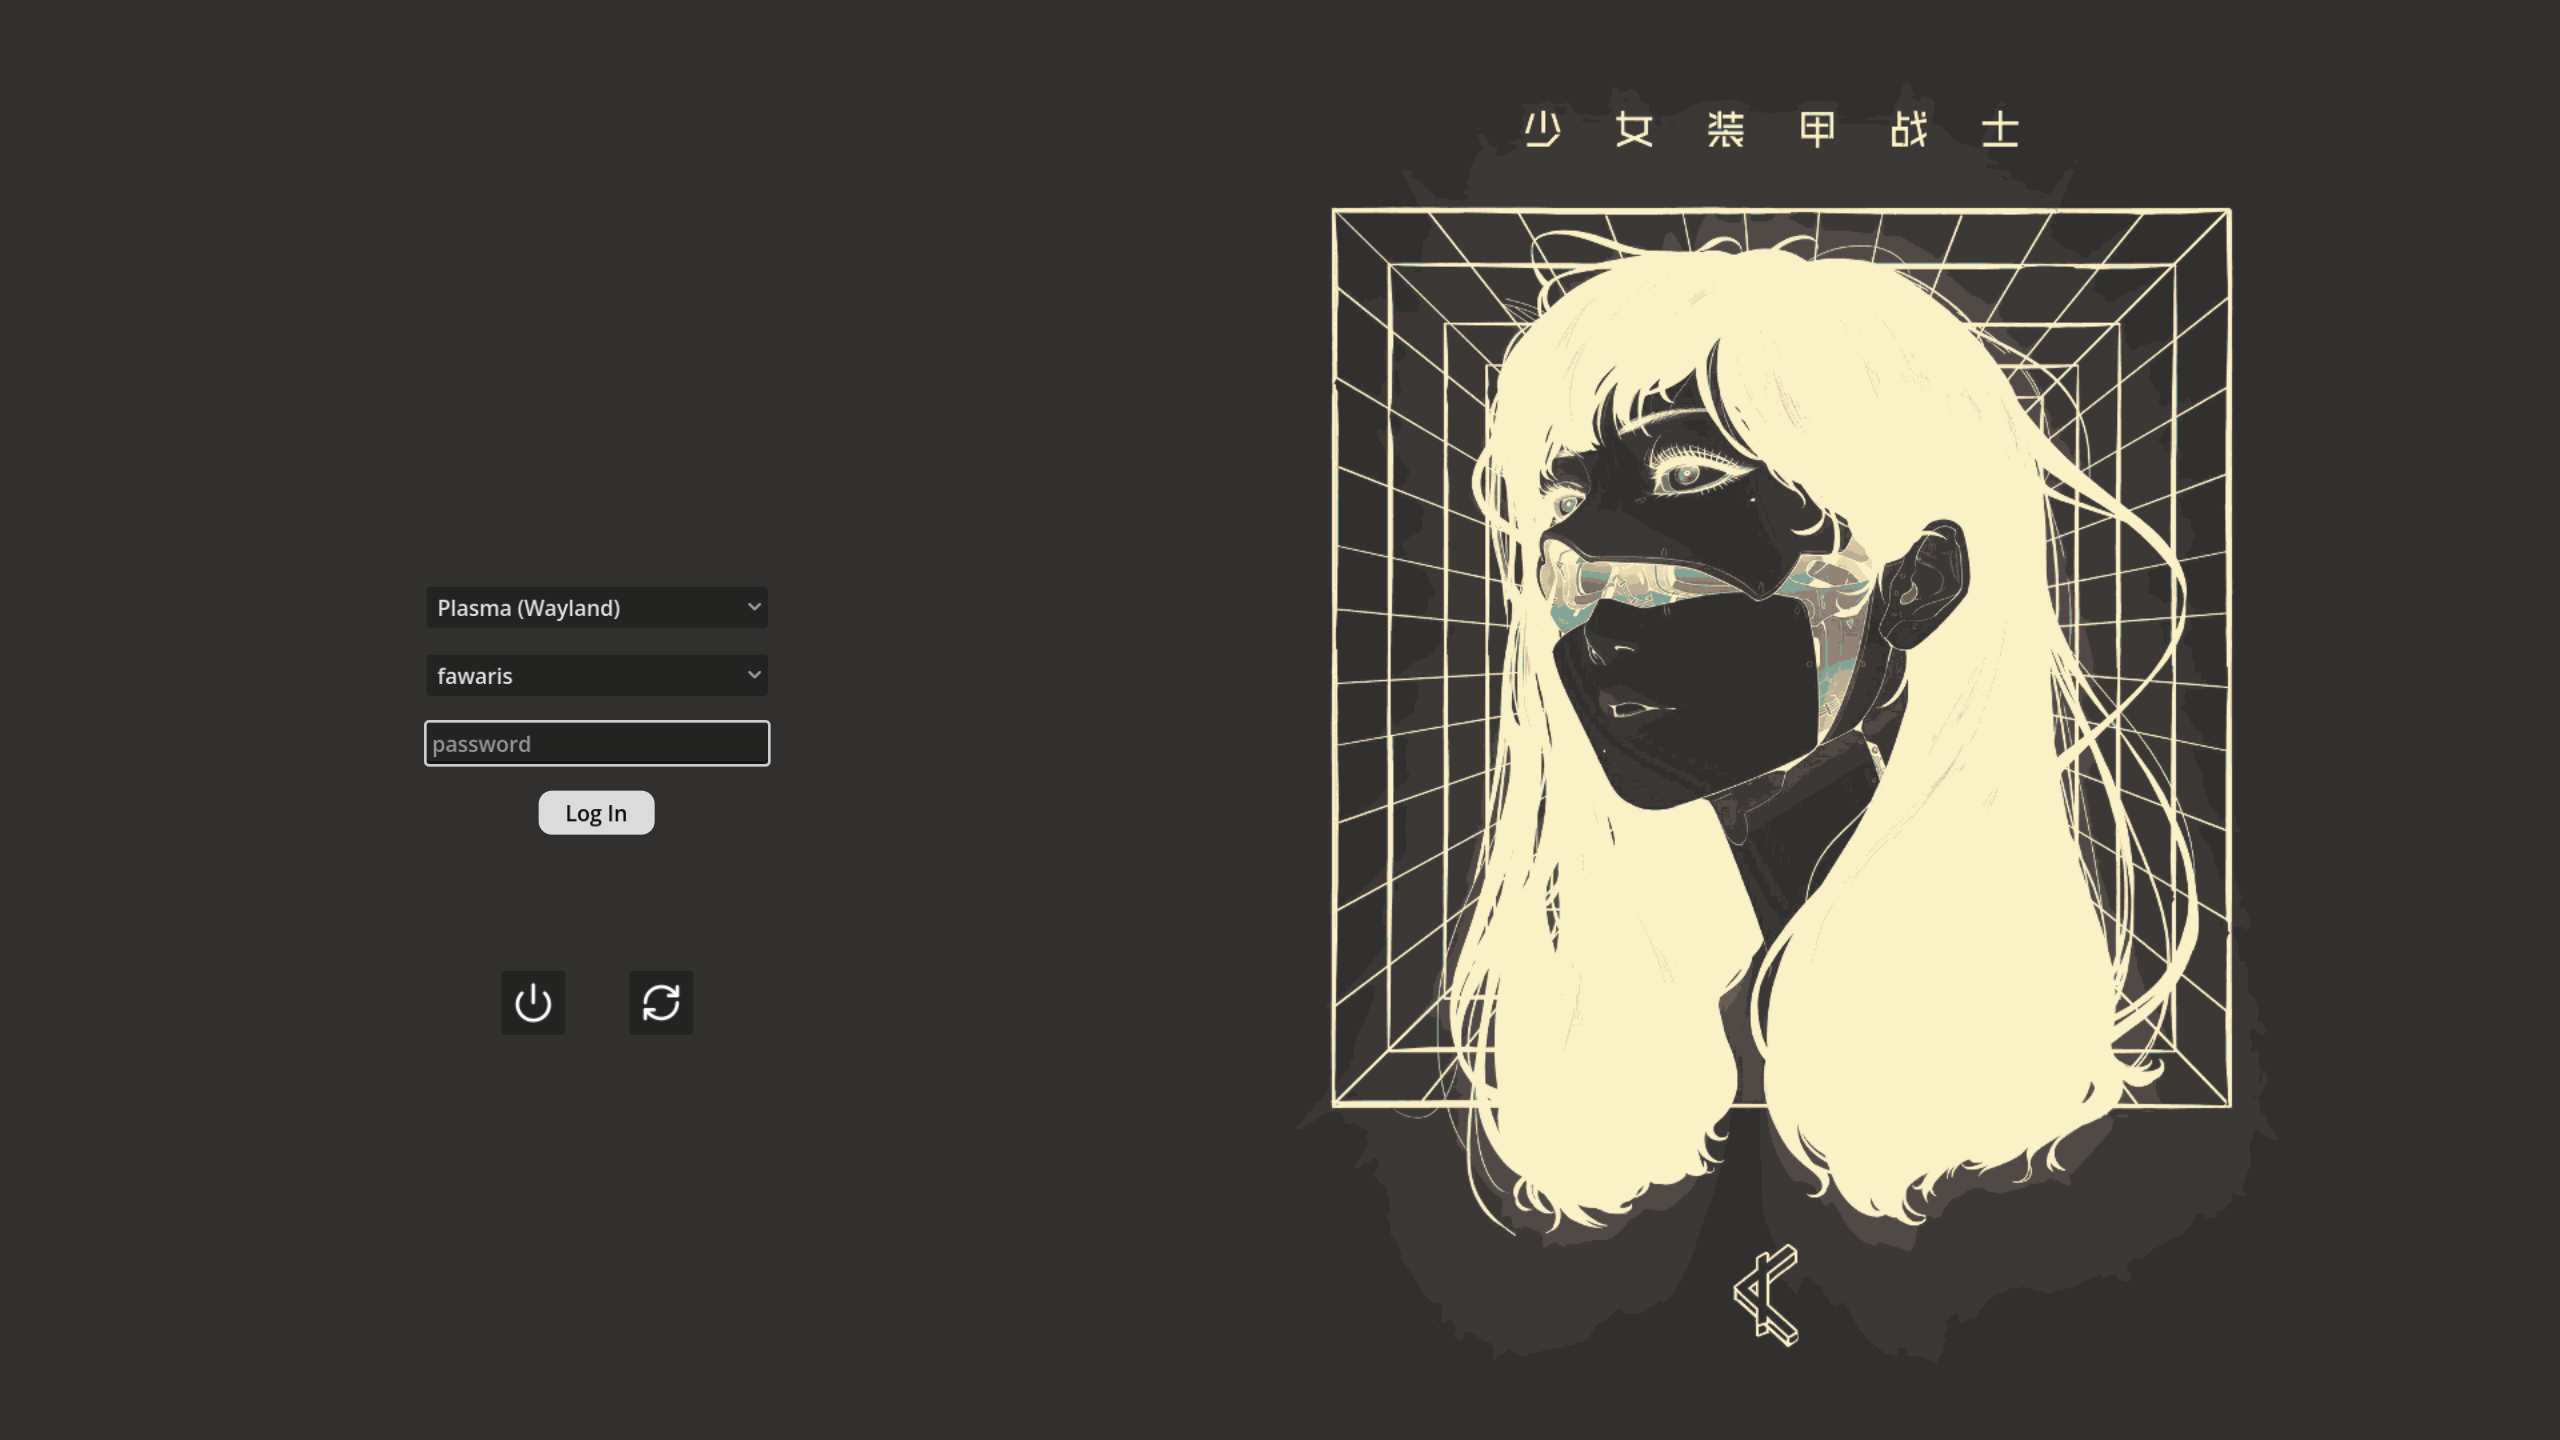
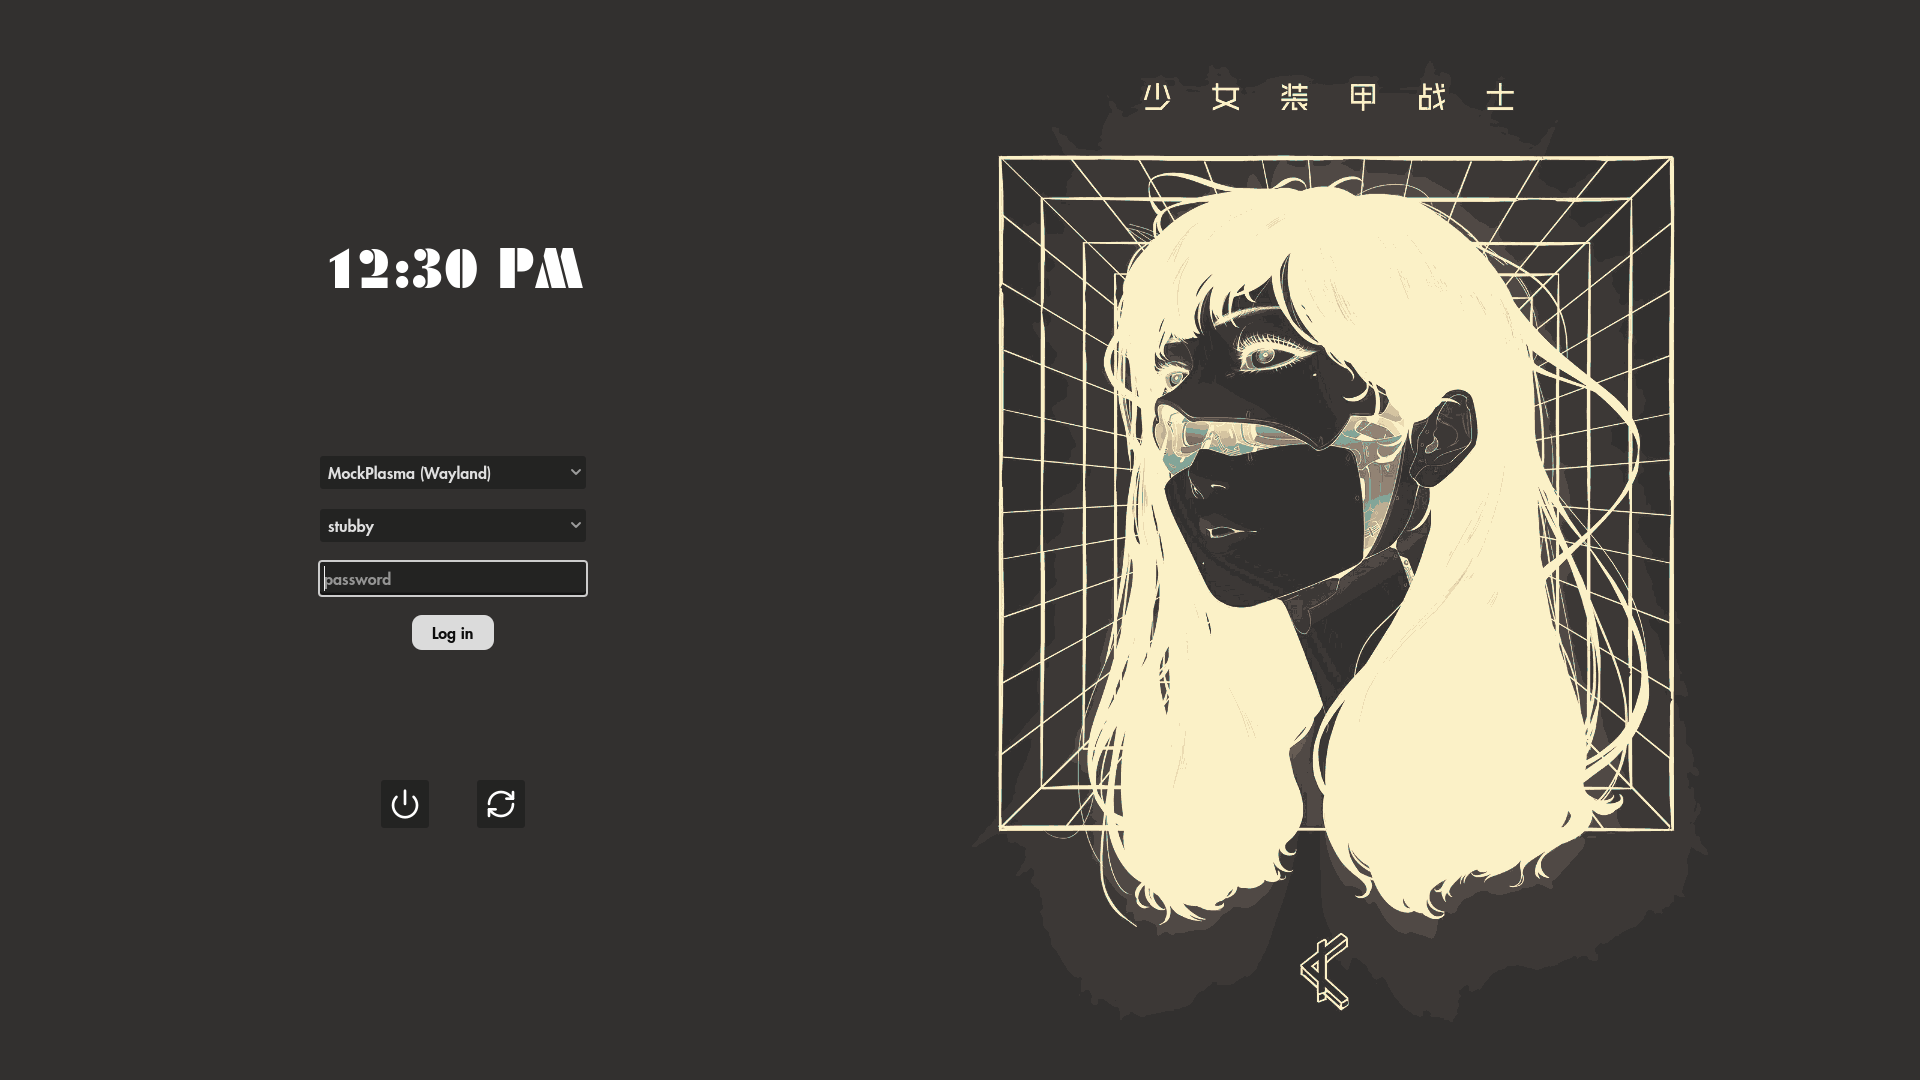
docs: Update readme credits and image

diff --git a/README.md b/README.md
@@ -1,8 +1,6 @@
 # Aisatsu
 
-A greeter for [Greetd](https://man.sr.ht/~kennylevinsen/greetd/).
-
-Made with the [Godot game engine](https://godotengine.org/)
+A greeter for [Greetd](https://man.sr.ht/~kennylevinsen/greetd/) made with the [Godot game engine](https://godotengine.org/)!
 
 **Is this a good idea?** I don't know, but it's fun and it works pretty well •ᴗ•
 
@@ -16,7 +14,12 @@ Work in progress.
 
 ## Credits
 
-- The original background art was made by [Gharliera](https://gharliera.com/) ([wallpaper link](https://wallhaven.cc/w/k899o7))
-	- I forgot where I got the specific image that I'm using with that color scheme. I also edited the image to move the girl's face to the right.
+- The styling was inspired by [sddm-astronaut-theme](https://github.com/Keyitdev/sddm-astronaut-theme)
+
+- The original background art was made by [Gharliera](https://gharliera.com/) ([wallpaper link](https://imgur.com/a/pua0dYx)).
+	- I edited the image to move the girl's face to the right.
 
 - Thanks to [gtkgreet](https://git.sr.ht/~kennylevinsen/gtkgreet) and [ReGreet](https://github.com/rharish101/ReGreet) for their reference implementations.
+
+- Fonts:
+	- Futura (original version) from [Kyles-World](https://github.com/Kyles-World/Futura-Font/tree/main)
